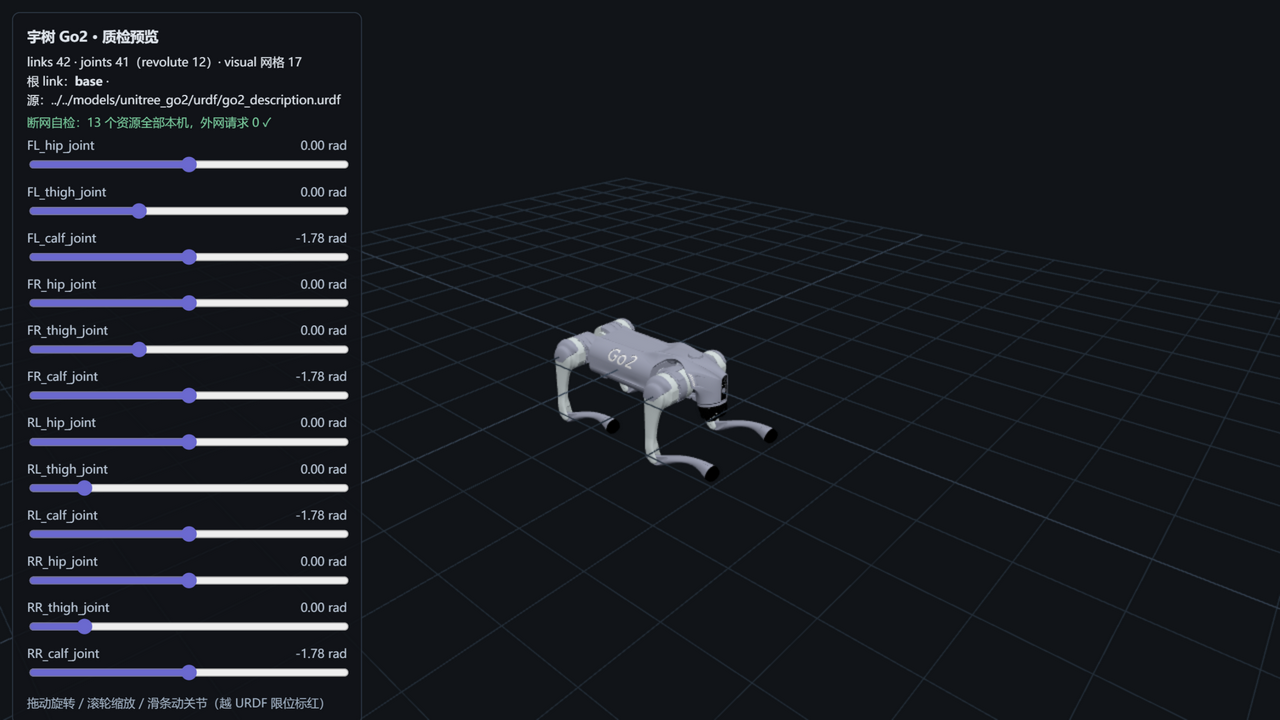
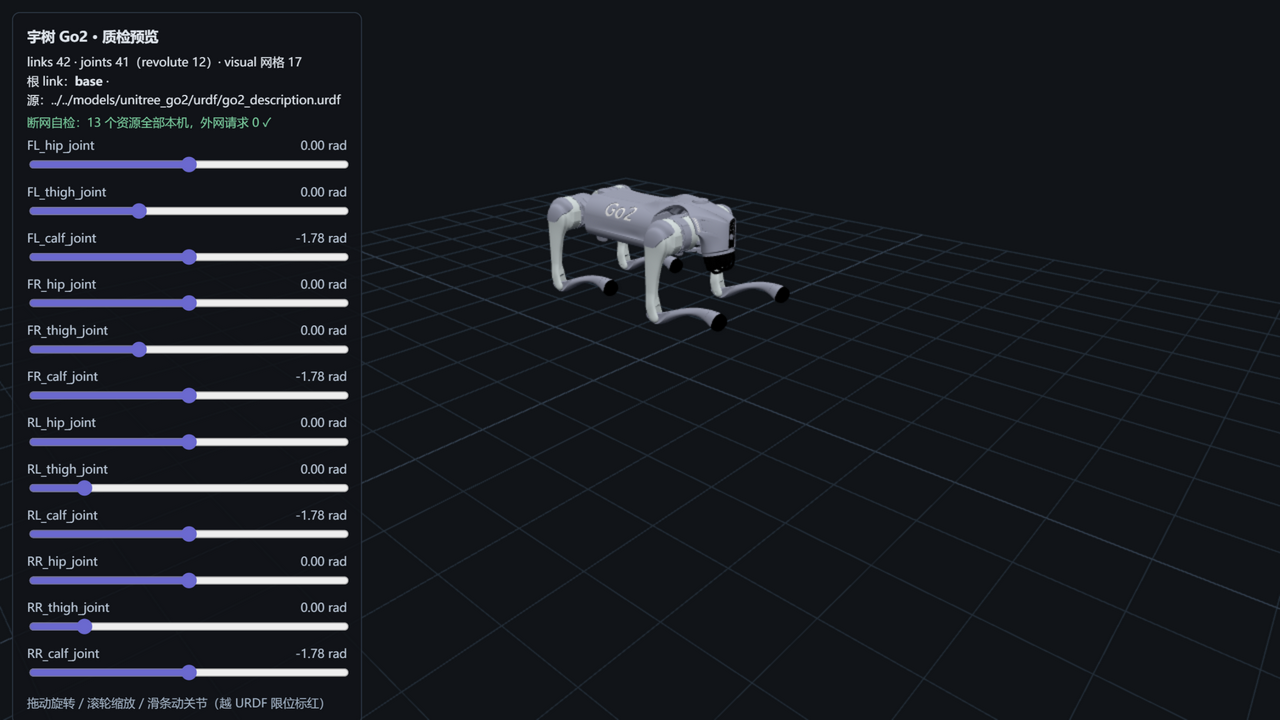
预览落地对齐：按包围盒抬升足端贴网格面+相机对准几何中心（用户反馈，AGENT-LAB L5）；模型页配图换落地版

Changed region(s): [[0.4062, 0.2444, 0.625, 0.6722]]

diff --git a/pipeline/s5_preview/preview.js b/pipeline/s5_preview/preview.js
@@ -92,6 +92,16 @@ for (const link of linkEls) {
 }
 await Promise.all(jobs);
 
+// 落地对齐：URDF base 原点在髋部、足端在 z≈-0.32，Z-up 转换后足端 y<0 会沉到网格下——
+// 按包围盒把整机抬到足端贴网格面，相机目标对准几何中心
+const bbox = new THREE.Box3().setFromObject(model);
+const lift = -bbox.min.y;
+model.position.y += lift;
+bbox.min.y += lift;
+bbox.max.y += lift;
+const center = bbox.getCenter(new THREE.Vector3());
+controls.target.set(0, center.y, 0);
+
 // ---- 关节滑条（质检元素：滑条范围比 URDF 限位宽 0.4rad，越限变红） ----
 const sliderBox = document.getElementById('sliders');
 const revolute = jointEls.filter(j => j.getAttribute('type') === 'revolute');

diff --git a/DEVLOG.md b/DEVLOG.md
@@ -2,6 +2,10 @@
 
 > 纪律：每次会话结束追加一条，新的在上。
 
+## 2026-10-11（会话 10 补记：预览落地对齐修复）
+
+- 用户反馈预览页"机器人半截身子在地平线以下"——根因：URDF base 原点在髋部、足端 z≈−0.32，Z-up 转换只修了方向没修位置，网格面（y=0）拦腰切过整机。修复 = 加载后按包围盒自动抬升至足端贴网格面 + 相机目标对准几何中心；浏览器复验通过（断网自检/红标照旧全绿）。记 AGENT-LAB L5；模型页配图同步换落地版截图。
+
 ## 2026-10-11（会话 10：终审 F1/F2 修复 → 数字复核）
 
 - **F1 修复**：s4_package.py 计数改**物理文件口径**——网格闭包按 dest 去重 + `assert` 防回归（URDF 17 处引用 → 7 个物理 dae）；体积实求和；冗余判定 17/0 → **7/0**；coverage 算式写平（root_level 改两段路径判定）：**raw 62 = 根级 8 + 子目录 54 = 入库 33 + meshes 冗余 7 + 排除 13，未覆盖 0**。重跑刷新 S4 报告，**终值：物理文件 34（33 个 raw 溯源件 + 1 个质检截图）/ 56.2 MB（磁盘 56,186,xxx bytes ≈ 53.9 MiB）**。扩散 4 处更正：SOURCE.md §4 / 顶层 README / 模型页 Provenance / S4 报告源头。

diff --git a/AGENT-LAB.md b/AGENT-LAB.md
@@ -2,6 +2,14 @@
 
 > 纪律（R1-④ 立规）：每次失败记四要素——现象 / 根因 / 自救动作 / 是否升级 codex 会诊。R2 起审核台查账。
 
+## 2026-10-11 · L5 · 预览模型"半截沉在网格下"（用户反馈抓出，F1 修复同期）
+
+- **现象**：用户打开预览页发现机器人"大半个身子在地平线以下"——网格面（y=0）把整机拦腰切开。
+- **根因**：URDF 的 base 原点在髋部（z≈0），足端在 z≈−0.32；Z-up→Y-up 转换只管方向不管位置，足端悬在 y≈−0.3，而 GridHelper 恰在 y=0。L3 修方向时漏了"落地"。
+- **自救**：加载完成后按包围盒自动抬升（`model.position.y -= bbox.min.y`）让足端贴网格面，相机目标改对几何中心；模型页配图同步换落地版截图。
+- **是否升级**：否。教训：坐标转换类修复要同时验"方向"和"位置"两个自由度。
+
+
 ## 2026-10-11 · L4 · 干净环境实测抓到 autocrlf 破坏哈希承诺（S7，本项目最有价值的一次自查）
 
 - **现象**：git clone 后 six 项哈希抽查 5/6——`three.module.js` 与工作区不一致；它是唯一以 LF 行尾入库的资产，git autocrlf 在 checkout 时把它转成了 CRLF。

diff --git a/REVIEW-REQUEST.md b/REVIEW-REQUEST.md
@@ -1,5 +1,7 @@
 # REVIEW-REQUEST — 送审材料
 
+> **已审 2026-10-11 · R6 结论：F1/F2 验收通过，M0 正式收官**（数字三口径自洽/扩散清零/防回归 assert；G1 体积口径注明 + G2 coverage 补 robots/README.md 桶——push 前必清，不阻塞）。下一事项=协议⑤ git push 另触发送审。详见 REVIEW.md R6。
+
 > 审核台审毕请在本文件顶部标注"已审 + 日期"，结论追加进 REVIEW.md。历次送审全文可在 git 历史回溯。
 > 上一次送审（S7 终审）已于 2026-10-11 审毕：**R5 = M0 有条件收官**（E1 过/干净环境实测过/门面过；F1 数字失真必修 + F2 轻残留），详见 REVIEW.md R5。
 
